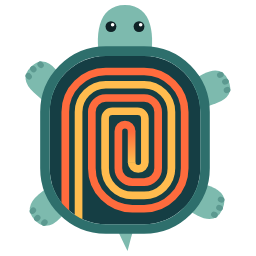
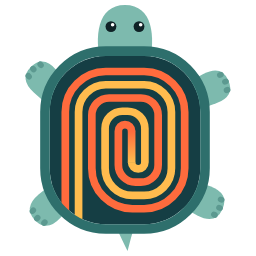
fix(brand): bend the loop's pipe, never kink it into 90-degree elbows
The inner turns of the bifilar loop were filleted with half a pitch, so
at logo size they read as right-angle elbows; a real UFH pipe (PEX/PERT)
is bent with a minimum radius and nobody lays a loop that way. Every bend
now keeps a minimum centre-line radius of 1.3 pitches (SHELL.minBend):
the outer turns still follow the shell concentrically, while the small
inner turns come out round, as they do on a real slab. Assets rebuilt.

Claude-Session: https://claude.ai/code/session_014nNzU9LTSc91RVrcLczDEo

diff --git a/docs/BRANDING.md b/docs/BRANDING.md
@@ -8,7 +8,10 @@ is a bifilar spiral (the *ślimak* layout installers use): supply (hot, orange) 
 middle and winds back out between its own turns, and both ends leave together at one
 corner, the way a real loop reaches its manifold. Hot next to cooler is what keeps a
 slab evenly warm, and the tortoise is the slab: heavy, slow and steady, and it always
-gets there. On the S-bend's spine the supply colour fades into the return colour.
+gets there. On the S-bend's spine the supply colour fades into the return colour. Like a
+real PEX/PERT pipe, the loop is bent, never kinked: no bend is tighter than a minimum
+radius (`minBend` in `logo.mjs`), so the outer turns follow the shell while the small
+inner turns come out round.
 
 Palette (from `scripts/brand/logo.mjs`):
 
